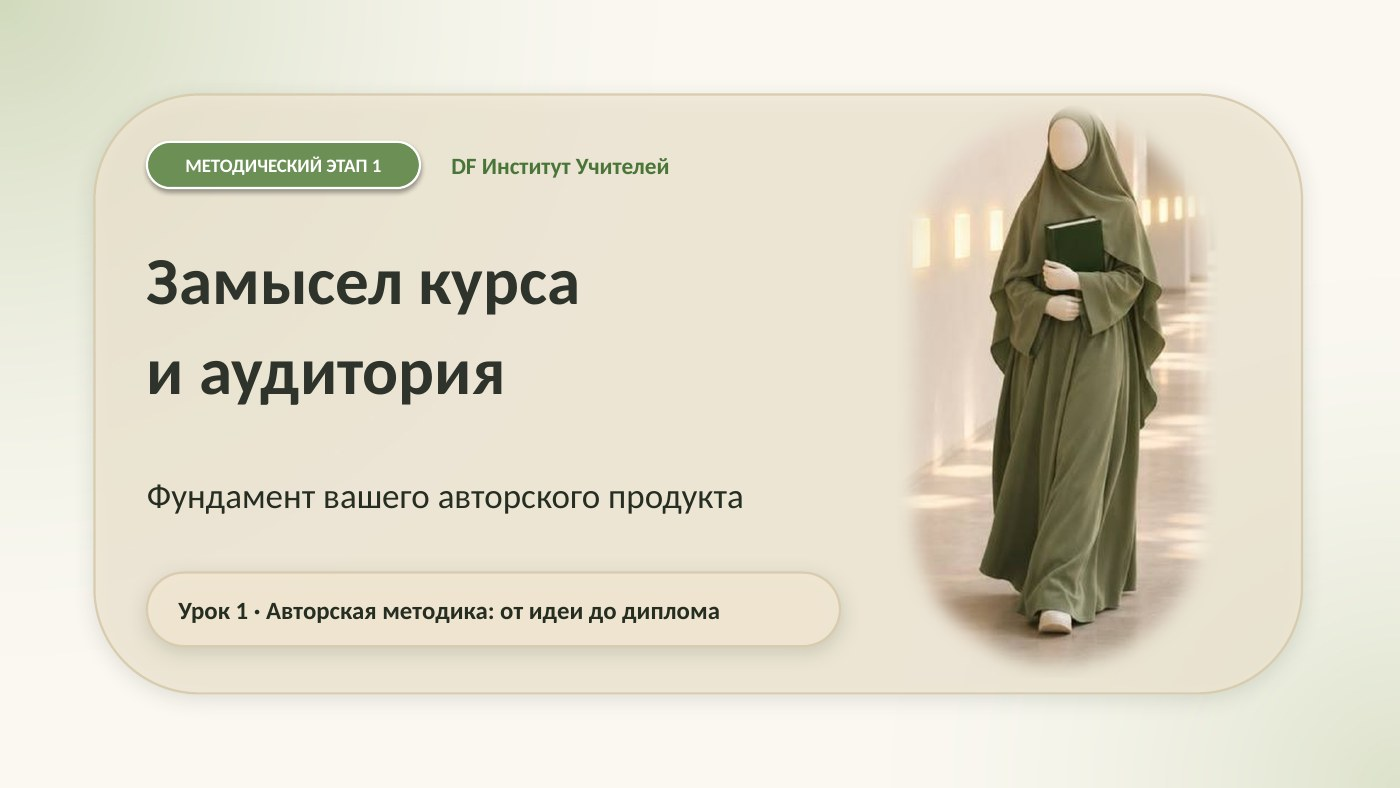
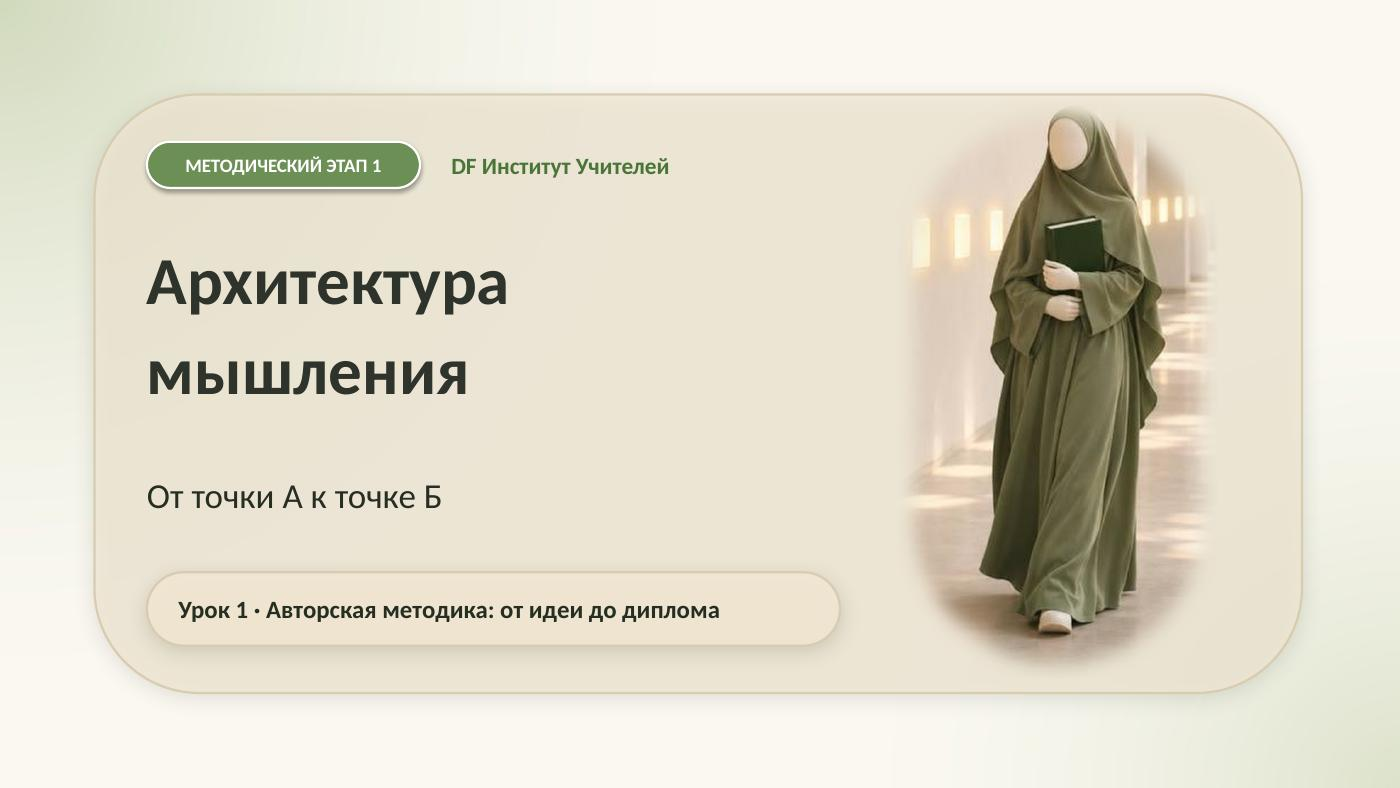
Урок 1 переименован в «Архитектура мышления», новый титульный слайд
Claude-Session: https://claude.ai/code/session_01QSBLQ1QGNxgcnSucjRRssF

diff --git a/index.html b/index.html
@@ -459,7 +459,7 @@ body:before{content:"";position:fixed;top:0;left:0;right:0;height:14px;backgroun
 <div class="label">Личный кабинет</div>
 <a class="nav" data-p="home" href="#home">⌂ Главная</a><a class="nav" data-p="about" href="#about">▤ О программе</a>
 <a class="sgo" id="sgo" href="#z1">▶ Мой следующий шаг</a>
-<div class="label">Шесть модулей программы</div><a class="modnav" data-m="1" href="#m1"><span class="mb">01</span><span class="mt">Разработка идеи и программы курса</span><i></i></a><div class="sls"><a class="sl" data-n="1" href="#z1"><b>Урок 01</b><span>Замысел курса и аудитория</span></a><a class="sl" data-n="2" href="#z2"><b>Урок 02</b><span>Проблема и результат обучения</span></a><a class="sl" data-n="3" href="#z3"><b>Урок 03</b><span>Анализ материалов и авторский вклад</span></a><a class="sl" data-n="4" href="#z4"><b>Урок 04</b><span>Разработка программы, модулей и уроков</span></a></div><a class="modnav" data-m="2" href="#m2"><span class="mb">02</span><span class="mt">Проектирование четырёх уроков</span><i></i></a><div class="sls"><a class="sl" data-n="5" href="#z5"><b>Урок 05</b><span>Вводный урок</span></a><a class="sl" data-n="6" href="#z6"><b>Урок 06</b><span>Первый содержательный урок</span></a><a class="sl" data-n="7" href="#z7"><b>Урок 07</b><span>Продолжение изучения темы</span></a><a class="sl" data-n="8" href="#z8"><b>Урок 08</b><span>Итоговый урок и проверка знаний</span></a></div><a class="modnav" data-m="3" href="#m3"><span class="mb">03</span><span class="mt">Методика и оформление уроков</span><i></i></a><div class="sls"><a class="sl" data-n="9" href="#z9"><b>Урок 09</b><span>Банк учебных материалов и приёмов</span></a><a class="sl" data-n="10" href="#z10"><b>Урок 10</b><span>Проверка структуры четырёх уроков</span></a><a class="sl" data-n="11" href="#z11"><b>Урок 11</b><span>Разработка единого дизайна</span></a></div><a class="modnav" data-m="4" href="#m4"><span class="mb">04</span><span class="mt">Освоение ИИ-инструмента</span><i></i></a><div class="sls"><a class="sl" data-n="12" href="#z12"><b>Урок 12</b><span>Начало работы с Kimi</span></a><a class="sl" data-n="13" href="#z13"><b>Урок 13</b><span>Создание презентаций с помощью Kimi</span></a></div><a class="modnav" data-m="5" href="#m5"><span class="mb">05</span><span class="mt">Создание презентаций и проведение урока</span><i></i></a><div class="sls"><a class="sl" data-n="14" href="#z14"><b>Урок 14</b><span>Создание презентации вводного урока</span></a><a class="sl" data-n="15" href="#z15"><b>Урок 15</b><span>Создание презентации первого содержательного урока</span></a><a class="sl" data-n="16" href="#z16"><b>Урок 16</b><span>Создание презентации продолжающегося урока</span></a><a class="sl" data-n="17" href="#z17"><b>Урок 17</b><span>Создание презентации завершающего урока</span></a></div><a class="modnav" data-m="6" href="#m6"><span class="mb">06</span><span class="mt">Подготовка диплома и защита</span><i></i></a><div class="sls"><a class="sl" data-n="18" href="#z18"><b>Урок 18</b><span>Представление и продвижение авторского курса</span></a><a class="sl" data-n="19" href="#z19"><b>Урок 19</b><span>Пояснительная записка и защитная презентация</span></a><a class="sl" data-n="20" href="#z20"><b>Урок 20</b><span>Итоговая защита дипломной работы</span></a></div>
+<div class="label">Шесть модулей программы</div><a class="modnav" data-m="1" href="#m1"><span class="mb">01</span><span class="mt">Разработка идеи и программы курса</span><i></i></a><div class="sls"><a class="sl" data-n="1" href="#z1"><b>Урок 01</b><span>Архитектура мышления</span></a><a class="sl" data-n="2" href="#z2"><b>Урок 02</b><span>Проблема и результат обучения</span></a><a class="sl" data-n="3" href="#z3"><b>Урок 03</b><span>Анализ материалов и авторский вклад</span></a><a class="sl" data-n="4" href="#z4"><b>Урок 04</b><span>Разработка программы, модулей и уроков</span></a></div><a class="modnav" data-m="2" href="#m2"><span class="mb">02</span><span class="mt">Проектирование четырёх уроков</span><i></i></a><div class="sls"><a class="sl" data-n="5" href="#z5"><b>Урок 05</b><span>Вводный урок</span></a><a class="sl" data-n="6" href="#z6"><b>Урок 06</b><span>Первый содержательный урок</span></a><a class="sl" data-n="7" href="#z7"><b>Урок 07</b><span>Продолжение изучения темы</span></a><a class="sl" data-n="8" href="#z8"><b>Урок 08</b><span>Итоговый урок и проверка знаний</span></a></div><a class="modnav" data-m="3" href="#m3"><span class="mb">03</span><span class="mt">Методика и оформление уроков</span><i></i></a><div class="sls"><a class="sl" data-n="9" href="#z9"><b>Урок 09</b><span>Банк учебных материалов и приёмов</span></a><a class="sl" data-n="10" href="#z10"><b>Урок 10</b><span>Проверка структуры четырёх уроков</span></a><a class="sl" data-n="11" href="#z11"><b>Урок 11</b><span>Разработка единого дизайна</span></a></div><a class="modnav" data-m="4" href="#m4"><span class="mb">04</span><span class="mt">Освоение ИИ-инструмента</span><i></i></a><div class="sls"><a class="sl" data-n="12" href="#z12"><b>Урок 12</b><span>Начало работы с Kimi</span></a><a class="sl" data-n="13" href="#z13"><b>Урок 13</b><span>Создание презентаций с помощью Kimi</span></a></div><a class="modnav" data-m="5" href="#m5"><span class="mb">05</span><span class="mt">Создание презентаций и проведение урока</span><i></i></a><div class="sls"><a class="sl" data-n="14" href="#z14"><b>Урок 14</b><span>Создание презентации вводного урока</span></a><a class="sl" data-n="15" href="#z15"><b>Урок 15</b><span>Создание презентации первого содержательного урока</span></a><a class="sl" data-n="16" href="#z16"><b>Урок 16</b><span>Создание презентации продолжающегося урока</span></a><a class="sl" data-n="17" href="#z17"><b>Урок 17</b><span>Создание презентации завершающего урока</span></a></div><a class="modnav" data-m="6" href="#m6"><span class="mb">06</span><span class="mt">Подготовка диплома и защита</span><i></i></a><div class="sls"><a class="sl" data-n="18" href="#z18"><b>Урок 18</b><span>Представление и продвижение авторского курса</span></a><a class="sl" data-n="19" href="#z19"><b>Урок 19</b><span>Пояснительная записка и защитная презентация</span></a><a class="sl" data-n="20" href="#z20"><b>Урок 20</b><span>Итоговая защита дипломной работы</span></a></div>
 <div class="label">Мои инструменты</div>
 <a class="nav" href="konstruktor.html">▦ Домашние задания и сборка курса</a><a class="nav" data-p="lib" href="#lib">▣ Библиотека материалов</a><a class="nav" data-p="tasks" href="#tasks">✓ Как сдать задание</a><a class="nav" data-p="portfolio" href="#portfolio">☷ Моё портфолио</a><a class="nav" data-p="diploma" href="#diploma">✧ Диплом и защита</a>
 <div class="label">Помощь</div><a class="nav" data-p="help" href="#help">? Помощь и словарь</a>
@@ -495,9 +495,9 @@ body:before{content:"";position:fixed;top:0;left:0;right:0;height:14px;backgroun
 <div class="mhero"><div class="mbig">МОДУЛЬ 01</div><h1>Разработка идеи и программы курса</h1><span class="tag">Уроки 01–04 · 4 урока</span><div class="mst"></div>
 <div class="mgoal"><div><b>Цель</b>Научиться разрабатывать программу своего курса.</div><div><b>Результат</b>Готовая программа курса.</div><div><b>Можно двигаться дальше, когда</b>Ответы занятий 1–4 заполнены в разделе «Домашние задания и сборка курса» и приняты куратором.</div></div></div>
 <div class="acts"><div><b>01 · Изучите</b><span>Откройте «Материалы»: презентация урока и шаблон.</span></div><div><b>02 · Выполните</b><span>Задание — в разделе «Домашние задания и сборка курса».</span></div><div><b>03 · Отправьте</b><span>Поставьте статус «Отправлено» — откроется следующий урок.</span></div></div>
-<article class="les" id="z1" data-n="1" data-t="Замысел курса и аудитория">
+<article class="les" id="z1" data-n="1" data-t="Архитектура мышления">
 <div class="lhd"><div class="ubig">УРОК 01</div><span class="now">Сейчас</span><span class="okm">✓ Пройден</span></div>
-<h3 class="lt">Замысел курса и аудитория</h3>
+<h3 class="lt">Архитектура мышления</h3>
 <div class="lockn">🔒 Откроется после урока 00. Сначала отправьте задание предыдущего урока.</div>
 <div class="lbody"><p class="ds">Для кого курс, точка А и точка Б, лист замысла.</p>
 <div class="row"><button class="mat" type="button" aria-expanded="false">Материалы <span>›</span></button><label class="stl">Статус <select class="sts" data-n="1"><option>Не начато</option><option>В работе</option><option>Отправлено</option><option>На проверке</option><option>Требуется доработка</option><option>Принято</option></select></label></div>
@@ -661,7 +661,7 @@ body:before{content:"";position:fixed;top:0;left:0;right:0;height:14px;backgroun
 <div class="fanw"><a class="ch add" style="--i:0" href="https://t.me/+A8v4YKrSgnRmODFk" target="_blank" rel="noopener">Группа «Экзамен Институт 2027»</a></div></div></article>
 <div class="endm"><div><b>Результат модуля 06</b><p>Дипломная работа и защита.</p><p class="endlock">🔒 Следующий модуль откроется, когда вы отправите все задания этого модуля.</p></div><a class="olb big" href="#diploma">К подготовке защиты →</a></div></section>
 
-<section class="page" id="page-lib"><div class="phead"><div><div class="k">МАТЕРИАЛЫ ПРОГРАММЫ</div><h1 class="ph">Библиотека материалов</h1></div><div class="pimg"><img src="img/books_shelf.jpg" alt=""></div></div><p class="lead">Все файлы программы в одном месте.</p><div class="lib box"><div class="libg"><b>Презентации уроков (PDF)</b><ul><li><a href="#" data-view="zanyatie-01" data-pages="22" target=_blank rel=noopener>01 · Замысел курса и аудитория</a></li><li><a href="#" data-view="zanyatie-02" data-pages="22" target=_blank rel=noopener>02 · Проблема и результат обучения</a></li><li><a href="#" data-view="zanyatie-03" data-pages="22" target=_blank rel=noopener>03 · Анализ материалов и авторский вклад</a></li><li><a href="#" data-view="zanyatie-04" data-pages="22" target=_blank rel=noopener>04 · Разработка программы, модулей и уроков</a></li><li><a href="#" data-view="zanyatie-05" data-pages="20" target=_blank rel=noopener>05 · Вводный урок</a></li><li><a href="#" data-view="zanyatie-06" data-pages="21" target=_blank rel=noopener>06 · Первый содержательный урок</a></li><li><a href="#" data-view="zanyatie-07" data-pages="22" target=_blank rel=noopener>07 · Продолжение изучения темы</a></li><li><a href="#" data-view="zanyatie-08" data-pages="22" target=_blank rel=noopener>08 · Итоговый урок и проверка знаний</a></li><li><a href="#" data-view="zanyatie-09" data-pages="17" target=_blank rel=noopener>09 · Банк учебных материалов и приёмов</a></li><li><a href="#" data-view="zanyatie-10" data-pages="18" target=_blank rel=noopener>10 · Проверка структуры четырёх уроков</a></li><li><a href="#" data-view="zanyatie-11" data-pages="17" target=_blank rel=noopener>11 · Разработка единого дизайна</a></li><li><a href="#" data-view="zanyatie-18" data-pages="22" target=_blank rel=noopener>18 · Представление и продвижение авторского курса</a></li><li><a href="#" data-view="zanyatie-19" data-pages="19" target=_blank rel=noopener>19 · Пояснительная записка и защитная презентация</a></li></ul></div><div class="libg"><b>Шаблоны уроков</b><ul><li><a href="#" data-view="skelet-1" data-pages="16" target=_blank rel=noopener>Шаблон вводного урока (PDF)</a></li><li><a href="#" data-view="skelet-2" data-pages="22" target=_blank rel=noopener>Шаблон первого содержательного урока (PDF)</a></li><li><a href="#" data-view="skelet-3" data-pages="18" target=_blank rel=noopener>Шаблон продолжающегося урока (PDF)</a></li><li><a href="#" data-view="skelet-4" data-pages="20" target=_blank rel=noopener>Шаблон завершающего урока (PDF)</a></li><li><a href="pdf/skelet-1.docx" download>Шаблон вводного урока (Word)</a></li><li><a href="pdf/skelet-2.docx" download>Шаблон первого содержательного урока (Word)</a></li><li><a href="pdf/skelet-3.docx" download>Шаблон продолжающегося урока (Word)</a></li><li><a href="pdf/skelet-4.docx" download>Шаблон завершающего урока (Word)</a></li></ul></div><div class="libg"><b>Диплом</b><ul><li><a href="#" data-view="skelet-5" data-pages="11" target=_blank rel=noopener>Шаблон защитной презентации (PDF)</a></li><li><a href="pdf/skelet-5.docx" download>Шаблон защитной презентации (Word)</a></li><li><a href="pdf/zapiska-shablon.docx" download>Шаблон пояснительной записки (Word)</a></li><li><a href="pdf/zapiska-shablon.pdf" target=_blank rel=noopener>Шаблон пояснительной записки (PDF)</a></li><li><a href="pdf/zapiska-obrazec-podrobnyj.docx" download>Подробный образец записки (Word)</a></li><li><a href="pdf/zapiska-obrazec-podrobnyj.pdf" target=_blank rel=noopener>Подробный образец записки (PDF)</a></li></ul></div><div class="libg"><b>Инструкции и видео</b><ul><li><a href="kimi-1.html">Начало работы с Kimi</a></li><li><a href="kimi-2.html">Создание презентаций с помощью Kimi</a></li><li><a href="https://t.me/+zDj6L_XIXr84NDM0" target=_blank rel=noopener>▶ Видео сборки презентации (группа ДЗ)</a></li></ul></div><div class="libg"><b>Дополнительно</b><ul><li><a href="pdf/nabor-uchenic.pdf" target=_blank rel=noopener>Набор учениц (PDF)</a></li><li><a href="https://t.me/+zDj6L_XIXr84NDM0" target=_blank rel=noopener>Банк приёмов и материалов (Telegram)</a></li></ul></div></div></section>
+<section class="page" id="page-lib"><div class="phead"><div><div class="k">МАТЕРИАЛЫ ПРОГРАММЫ</div><h1 class="ph">Библиотека материалов</h1></div><div class="pimg"><img src="img/books_shelf.jpg" alt=""></div></div><p class="lead">Все файлы программы в одном месте.</p><div class="lib box"><div class="libg"><b>Презентации уроков (PDF)</b><ul><li><a href="#" data-view="zanyatie-01" data-pages="22" target=_blank rel=noopener>01 · Архитектура мышления</a></li><li><a href="#" data-view="zanyatie-02" data-pages="22" target=_blank rel=noopener>02 · Проблема и результат обучения</a></li><li><a href="#" data-view="zanyatie-03" data-pages="22" target=_blank rel=noopener>03 · Анализ материалов и авторский вклад</a></li><li><a href="#" data-view="zanyatie-04" data-pages="22" target=_blank rel=noopener>04 · Разработка программы, модулей и уроков</a></li><li><a href="#" data-view="zanyatie-05" data-pages="20" target=_blank rel=noopener>05 · Вводный урок</a></li><li><a href="#" data-view="zanyatie-06" data-pages="21" target=_blank rel=noopener>06 · Первый содержательный урок</a></li><li><a href="#" data-view="zanyatie-07" data-pages="22" target=_blank rel=noopener>07 · Продолжение изучения темы</a></li><li><a href="#" data-view="zanyatie-08" data-pages="22" target=_blank rel=noopener>08 · Итоговый урок и проверка знаний</a></li><li><a href="#" data-view="zanyatie-09" data-pages="17" target=_blank rel=noopener>09 · Банк учебных материалов и приёмов</a></li><li><a href="#" data-view="zanyatie-10" data-pages="18" target=_blank rel=noopener>10 · Проверка структуры четырёх уроков</a></li><li><a href="#" data-view="zanyatie-11" data-pages="17" target=_blank rel=noopener>11 · Разработка единого дизайна</a></li><li><a href="#" data-view="zanyatie-18" data-pages="22" target=_blank rel=noopener>18 · Представление и продвижение авторского курса</a></li><li><a href="#" data-view="zanyatie-19" data-pages="19" target=_blank rel=noopener>19 · Пояснительная записка и защитная презентация</a></li></ul></div><div class="libg"><b>Шаблоны уроков</b><ul><li><a href="#" data-view="skelet-1" data-pages="16" target=_blank rel=noopener>Шаблон вводного урока (PDF)</a></li><li><a href="#" data-view="skelet-2" data-pages="22" target=_blank rel=noopener>Шаблон первого содержательного урока (PDF)</a></li><li><a href="#" data-view="skelet-3" data-pages="18" target=_blank rel=noopener>Шаблон продолжающегося урока (PDF)</a></li><li><a href="#" data-view="skelet-4" data-pages="20" target=_blank rel=noopener>Шаблон завершающего урока (PDF)</a></li><li><a href="pdf/skelet-1.docx" download>Шаблон вводного урока (Word)</a></li><li><a href="pdf/skelet-2.docx" download>Шаблон первого содержательного урока (Word)</a></li><li><a href="pdf/skelet-3.docx" download>Шаблон продолжающегося урока (Word)</a></li><li><a href="pdf/skelet-4.docx" download>Шаблон завершающего урока (Word)</a></li></ul></div><div class="libg"><b>Диплом</b><ul><li><a href="#" data-view="skelet-5" data-pages="11" target=_blank rel=noopener>Шаблон защитной презентации (PDF)</a></li><li><a href="pdf/skelet-5.docx" download>Шаблон защитной презентации (Word)</a></li><li><a href="pdf/zapiska-shablon.docx" download>Шаблон пояснительной записки (Word)</a></li><li><a href="pdf/zapiska-shablon.pdf" target=_blank rel=noopener>Шаблон пояснительной записки (PDF)</a></li><li><a href="pdf/zapiska-obrazec-podrobnyj.docx" download>Подробный образец записки (Word)</a></li><li><a href="pdf/zapiska-obrazec-podrobnyj.pdf" target=_blank rel=noopener>Подробный образец записки (PDF)</a></li></ul></div><div class="libg"><b>Инструкции и видео</b><ul><li><a href="kimi-1.html">Начало работы с Kimi</a></li><li><a href="kimi-2.html">Создание презентаций с помощью Kimi</a></li><li><a href="https://t.me/+zDj6L_XIXr84NDM0" target=_blank rel=noopener>▶ Видео сборки презентации (группа ДЗ)</a></li></ul></div><div class="libg"><b>Дополнительно</b><ul><li><a href="pdf/nabor-uchenic.pdf" target=_blank rel=noopener>Набор учениц (PDF)</a></li><li><a href="https://t.me/+zDj6L_XIXr84NDM0" target=_blank rel=noopener>Банк приёмов и материалов (Telegram)</a></li></ul></div></div></section>
 
 <section class="page" id="page-tasks"><div class="k">ПРАКТИЧЕСКАЯ РАБОТА</div><h1 class="ph">Как сдать задание</h1>
 <div class="box"><ol class="steps6"><li><span class="dot">1</span><div><b>Откройте урок</b><small>Выберите в списке урок, по которому делаете задание.</small></div></li><li><span class="dot">2</span><div><b>Выполните задание в разделе «Домашние задания и сборка курса»</b><small>Заполните все поля урока. Синий текст — пример, он исчезнет, когда вы начнёте писать.</small></div></li><li><span class="dot">3</span><div><b>Отправьте боту</b><small>Кнопка «Скопировать и отправить боту» откроет бота @dz_df2027_bot: вставьте текст и отправьте. Куратор получит задание.</small></div></li><li><span class="dot">4</span><div><b>Приложите фото или скриншот</b><small>Если часть задания вы делали от руки или на печати, отправьте боту фото или скриншот в том же чате.</small></div></li><li><span class="dot">5</span><div><b>Поставьте статус «Отправлено»</b><small>Откроется следующий урок.</small></div></li></ol>

diff --git a/konstruktor.html b/konstruktor.html
@@ -80,7 +80,7 @@ textarea,input,select{border-radius:18px!important;border:0!important;background
 var TG='https://t.me/+zDj6L_XIXr84NDM0'; // группа учениц
 var BOT='https://t.me/dz_df2027_bot'; // бот домашних заданий
 var L=[
-{n:1,t:'Замысел курса и аудитория',note:'Домашнее задание урока 1: ответьте на пять блоков (Кто я, Цель, Аудитория, Система, Результат), напишите пример из практики, соберите 5–10 повторяющихся трудностей с источниками и допишите две части листа замысла. Остальные части листа замысла соберутся из ваших ответов, заново писать их не нужно. Критерий: точка Б — то, что можно увидеть или услышать; трудности повторяются у разных людей. Рефлексию урока вы пишете письменно в чате на занятии.',f:[
+{n:1,t:'Архитектура мышления',note:'Домашнее задание урока 1: ответьте на пять блоков (Кто я, Цель, Аудитория, Система, Результат), напишите пример из практики, соберите 5–10 повторяющихся трудностей с источниками и допишите две части листа замысла. Остальные части листа замысла соберутся из ваших ответов, заново писать их не нужно. Критерий: точка Б — то, что можно увидеть или услышать; трудности повторяются у разных людей. Рефлексию урока вы пишете письменно в чате на занятии.',f:[
  ['ex4','Пример из вашей практики: трудность ученицы и как вы её преодолевали (2–3 предложения)','Ребёнок путал Ш и Щ в словах. Я стала показывать две буквы рядом и просила найти их в одном слове'],
  ['who_t','Кто я как преподаватель','Учу детей 6–7 лет читать 4 года, онлайн, в группах до 5 человек'],
  ['goal','Цель курса','Ребёнок узнаёт все 33 буквы русского алфавита и читает слоги и короткие слова'],

diff --git a/sw.js b/sw.js
@@ -1,4 +1,4 @@
-var V='df-v5',CORE=['./','index.html','kimi-1.html','kimi-2.html','konstruktor.html','glass2027.css','glass2027.js','dostizheniya.css','dostizheniya.js','offline.css','offline.js','icons/icon-192.png'];
+var V='df-v6',CORE=['./','index.html','kimi-1.html','kimi-2.html','konstruktor.html','glass2027.css','glass2027.js','dostizheniya.css','dostizheniya.js','offline.css','offline.js','icons/icon-192.png'];
 self.addEventListener('install',function(e){e.waitUntil(caches.open(V).then(function(c){return Promise.all(CORE.map(function(u){return c.add(u).catch(function(){})}))}).then(function(){return self.skipWaiting()}))});
 self.addEventListener('activate',function(e){e.waitUntil(caches.keys().then(function(k){return Promise.all(k.filter(function(x){return x!==V}).map(function(x){return caches.delete(x)}))}).then(function(){return self.clients.claim()}))});
 self.addEventListener('fetch',function(e){var r=e.request;if(r.method!=='GET'||new URL(r.url).origin!==location.origin)return;
